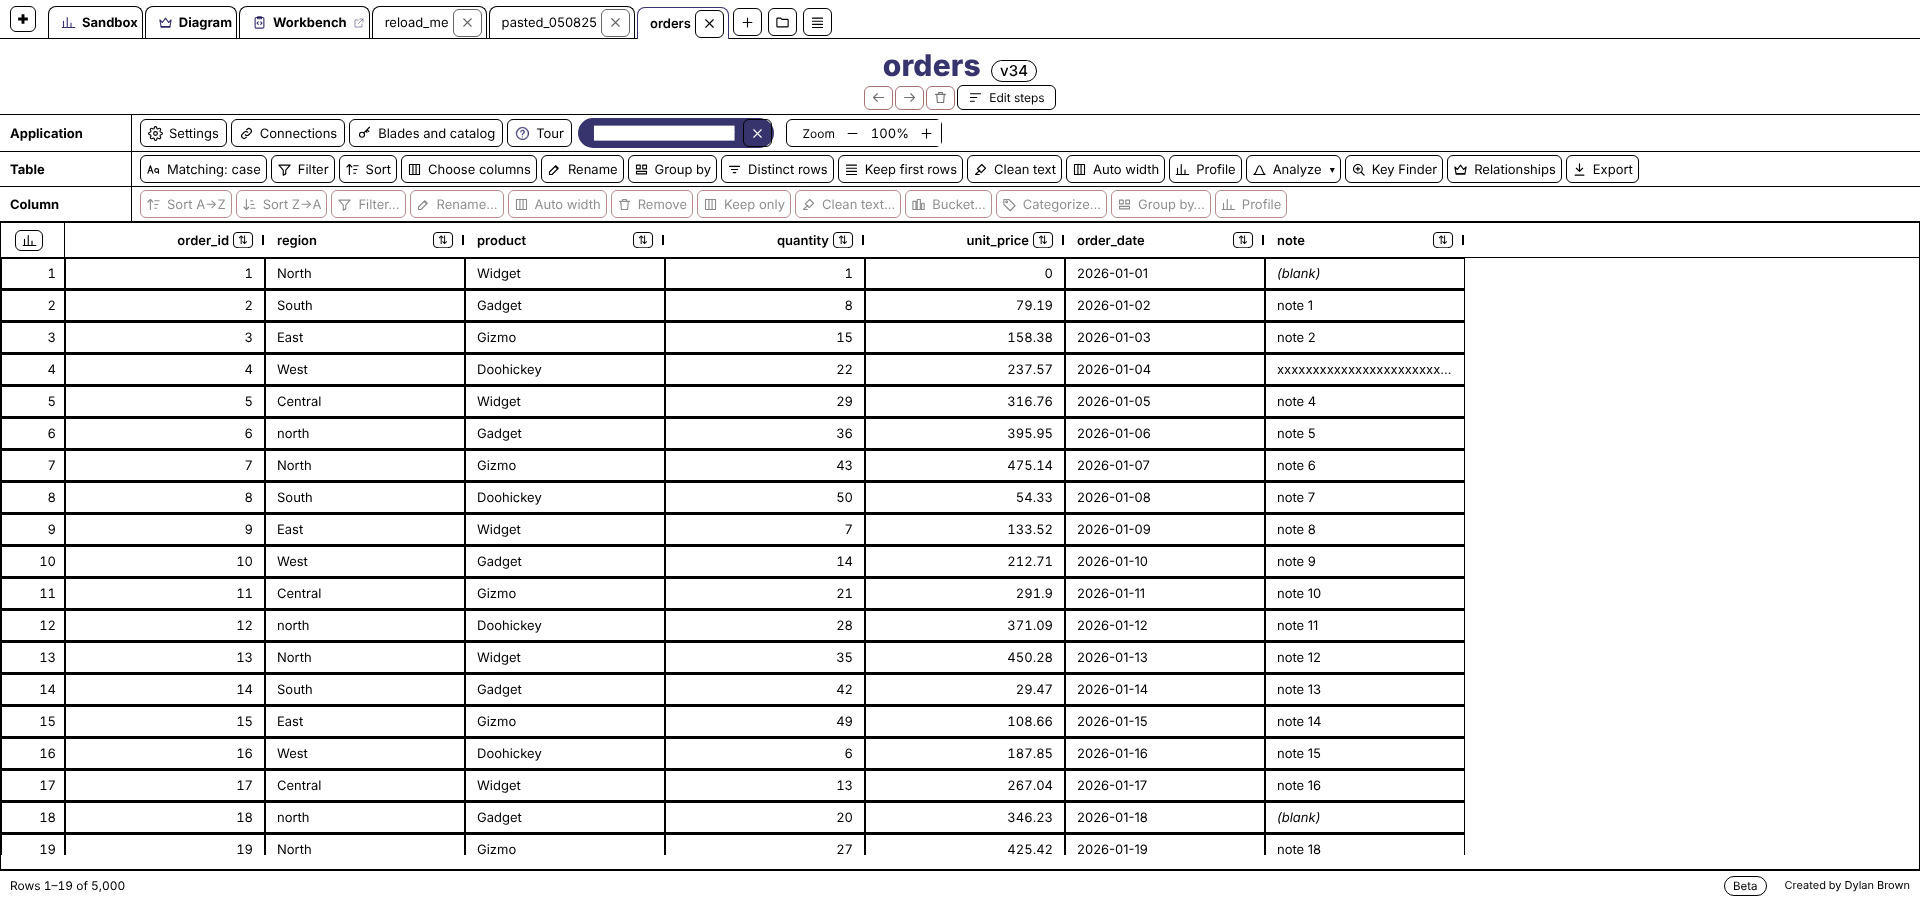
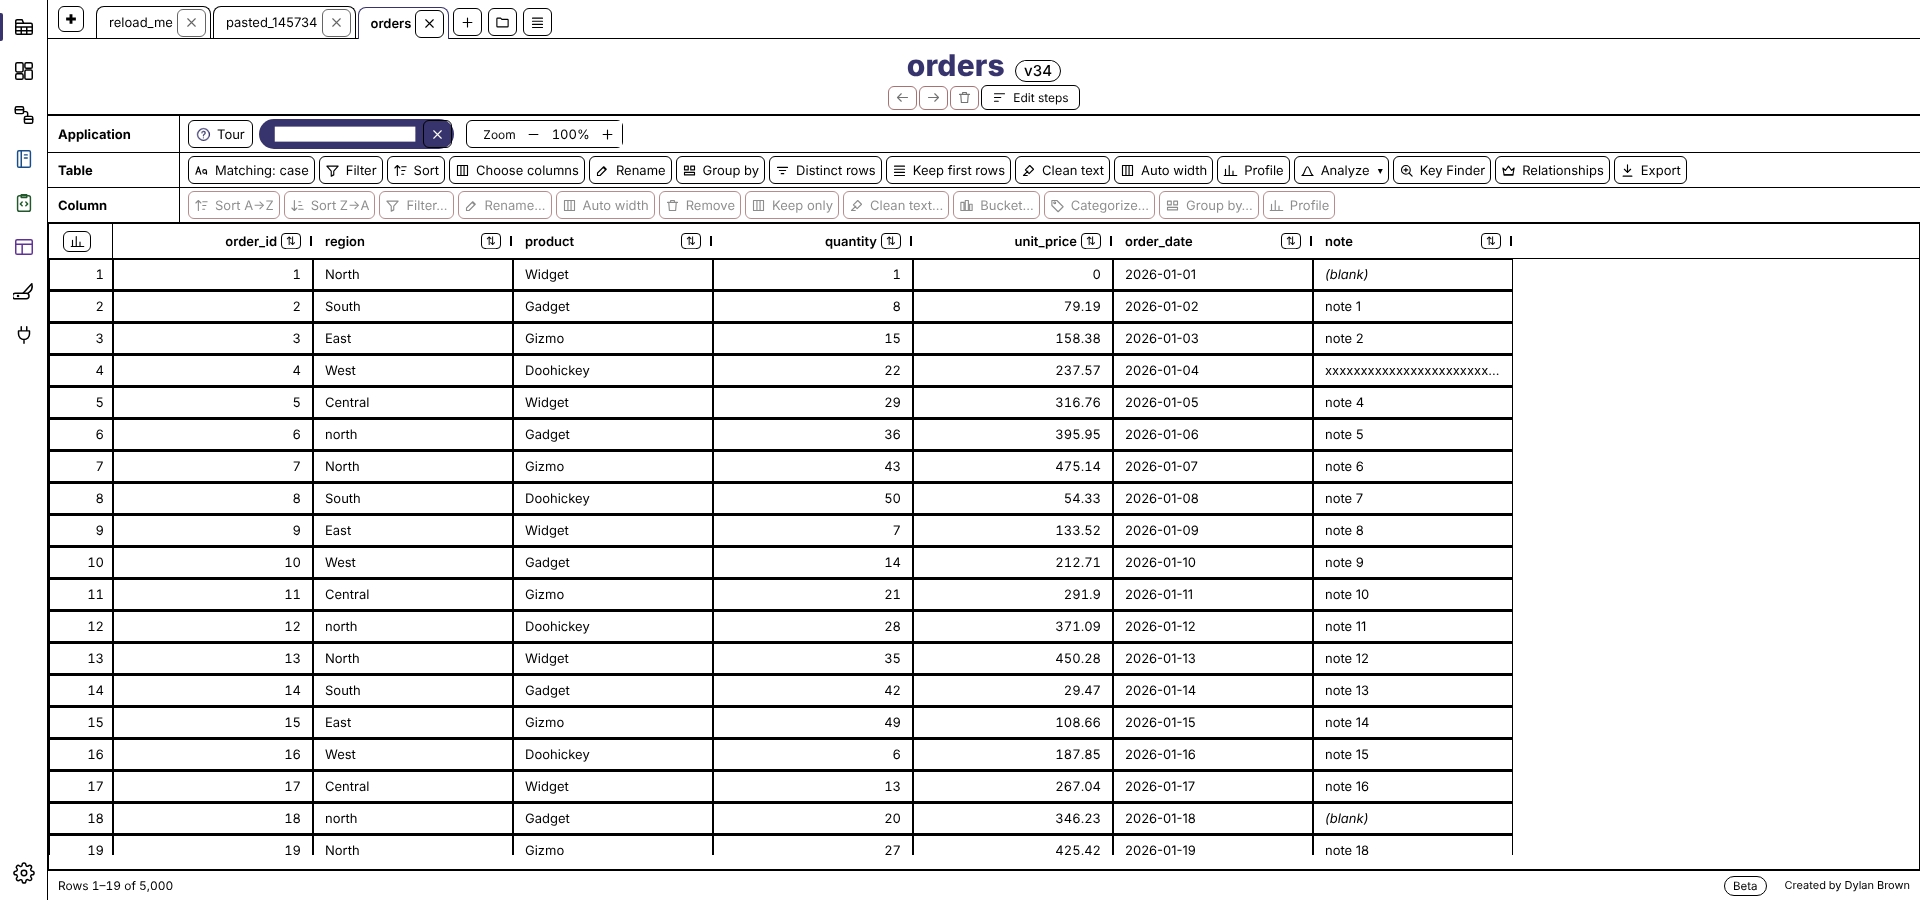
Release 0.0.8: an unused import out; the rail in the release notes
Claude-Session: https://claude.ai/code/session_01FWQnp3dtRkEnByKM6kHori

diff --git a/tests/e2e/test_after_sending.py b/tests/e2e/test_after_sending.py
@@ -5,7 +5,6 @@ closes its window and shows the new tab. Made-up orders."""
 
 from __future__ import annotations
 
-import re
 from typing import Any
 
 from playwright.sync_api import Browser, expect

diff --git a/.github/release-notes/v0.0.8.md b/.github/release-notes/v0.0.8.md
@@ -16,6 +16,9 @@ Swiss Army Bench 0.0.8: projects in one .sab file, and a Start page.
 - **Open from anywhere:** `swissarmybench open file.sab`, and on Windows a double-click on a .sab opens it (the
   installer registers the file type for you, no admin needed). On Linux the installer adds the file type; macOS
   isn't registered yet.
+- **The rail is always there:** the Sandbox, Diagram and Workbench tabs and the Application row's Settings,
+  Connections and Blades buttons are gone, since the rail has them; the tabs along the top are only your grids.
+  Settings no longer has a switch to hide the rail.
 - **The agent can do it too:** open, save, save as, close, the recent list and a table's fix. It asks your Allow
   only when a save would write rows into the file.
 
